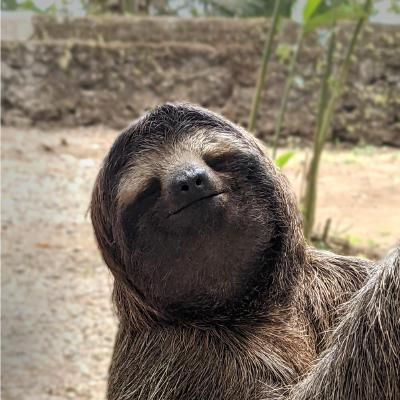
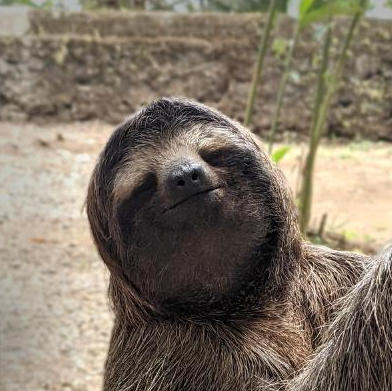
sc

diff --git a/index.html b/index.html
@@ -24,7 +24,7 @@
     
     <div class="row head-row">
       <div class="col">
-        <img src="" class="head-img" />
+        <img src="portrait2.jpg" class="head-img" />
       </div>
       <div class="col head">
         <h1>Timo Lüddecke</h1>
@@ -67,7 +67,7 @@
                         <p class="title">Image Segmentation Using Text and Image Prompts</p>
                         <p class="authors">Lüddecke, Timo, and Ecker, Alexander</p>
                         <p class="journal">Proceedings of the IEEE/CVF Conference on Computer Vision and Pattern Recognition, 2022</p>
-                        <p class="info"></p>
+                        <p class="info"><a href="https://openaccess.thecvf.com/content/CVPR2022/html/Luddecke_Image_Segmentation_Using_Text_and_Image_Prompts_CVPR_2022_paper.html" class="paper-link">Link</a> <a href="https://github.com/timojl/clipseg" class="paper-link">Code</a></p>
                     </div>
                 </div>
                 <div class="row">
@@ -78,7 +78,7 @@
                         <p class="title">Self-supervised Representation Learning of Neuronal Morphologies</p>
                         <p class="authors">Weis, Marissa A, Pede, Laura, Lüddecke, Timo, and Ecker, Alexander S</p>
                         <p class="journal">arXiv preprint arXiv:2112.12482, 2021</p>
-                        <p class="info"></p>
+                        <p class="info"><a href="https://arxiv.org/abs/2112.12482" class="paper-link">Link</a> </p>
                     </div>
                 </div>
                 <div class="row">
@@ -89,7 +89,7 @@
                         <p class="title">One-shot multi-path planning for robotic applications using fully convolutional networks</p>
                         <p class="authors">Tomas Kulvicius, Sebastian Herzog, Timo Lüddecke, Minija Tamosiunaite, and Florentin Wörgötter</p>
                         <p class="journal">In Proceedings of International Conference on Robotics and Automation (ICRA), 2020</p>
-                        <p class="info"><a href="https://ieeexplore.ieee.org/document/9196719" class="paper-link">Link</a></p>
+                        <p class="info"><a href="https://ieeexplore.ieee.org/document/9196719" class="paper-link">Link</a> </p>
                     </div>
                 </div>
                 <div class="row">
@@ -100,7 +100,7 @@
                         <p class="title">Fine-grained action plausibility rating</p>
                         <p class="authors">Timo Lüddecke, and Florentin Wörgötter</p>
                         <p class="journal">Robotics and Autonomous Systems (RAS), 2020</p>
-                        <p class="info"><a href="https://www.sciencedirect.com/science/article/abs/pii/S0921889019305536" class="paper-link">Link</a></p>
+                        <p class="info"><a href="https://www.sciencedirect.com/science/article/abs/pii/S0921889019305536" class="paper-link">Link</a> </p>
                     </div>
                 </div>
                 <div class="row">
@@ -111,7 +111,7 @@
                         <p class="title">CNNs can efficiently trace paths, too</p>
                         <p class="authors">Timo Lüddecke, and Alexander Ecker</p>
                         <p class="journal">NeurIPS 2020 Workshop SVRHM, 2020</p>
-                        <p class="info"><a href="https://openreview.net/forum?id=dPwyQnHUVvw" class="paper-link">Link</a></p>
+                        <p class="info"><a href="https://openreview.net/forum?id=dPwyQnHUVvw" class="paper-link">Link</a> </p>
                     </div>
                 </div>
                 <div class="row">
@@ -122,7 +122,7 @@
                         <p class="title">Distributional Semantics of Objects in Visual Scenes in Comparison to Text</p>
                         <p class="authors">Timo Lüddecke, Alejandro Agostini, Michael Fauth, Minija Tamosiunaite, and Florentin Wörgötter</p>
                         <p class="journal">Artificial Intelligence, 2019</p>
-                        <p class="info"><a href="http://www.sciencedirect.com/science/article/pii/S0004370219300177" class="paper-link">Link</a></p>
+                        <p class="info"><a href="http://www.sciencedirect.com/science/article/pii/S0004370219300177" class="paper-link">Link</a> </p>
                     </div>
                 </div>
                 <div class="row">
@@ -133,7 +133,7 @@
                         <p class="title">Context-based Affordance Segmentation from 2D Images for Robot Action</p>
                         <p class="authors">Timo Lüddecke, Tomas Kulvicius, and Florentin Wörgötter</p>
                         <p class="journal">Robotics and Autonomous Systems (RAS), 2019</p>
-                        <p class="info"><a href="https://www.sciencedirect.com/science/article/abs/pii/S0921889018309990" class="paper-link">Link</a></p>
+                        <p class="info"><a href="https://www.sciencedirect.com/science/article/abs/pii/S0921889018309990" class="paper-link">Link</a> </p>
                     </div>
                 </div>
                 <div class="row">
@@ -144,7 +144,7 @@
                         <p class="title">Learning to Segment Affordances</p>
                         <p class="authors">Timo Lüddecke, and Florentin Wörgötter</p>
                         <p class="journal">International Conference on Computer Vision Workshops (ICCVW), 2017</p>
-                        <p class="info"><a href="https://openaccess.thecvf.com/content_ICCV_2017_workshops/w14/html/Luddecke_Learning_to_Segment_ICCV_2017_paper.html" class="paper-link">Link</a></p>
+                        <p class="info"><a href="https://openaccess.thecvf.com/content_ICCV_2017_workshops/w14/html/Luddecke_Learning_to_Segment_ICCV_2017_paper.html" class="paper-link">Link</a> </p>
                     </div>
                 </div>
                 <div class="row">
@@ -155,7 +155,7 @@
                         <p class="title">Convolutional Neural Networks for Movement Prediction in Videos</p>
                         <p class="authors">Alexander Warnecke, Timo Lüddecke, and Florentin Wörgötter</p>
                         <p class="journal">German Conference on Pattern Recognition (GCPR), 2017</p>
-                        <p class="info"></p>
+                        <p class="info"> </p>
                     </div>
                 </div>
 
@@ -181,6 +181,7 @@
       <div class="col article">
         <p class="title">DrawCNN</p>
         <p class="description">DrawCNN is a python script to visualize CNN architectures and export to SVG for later refinement.</p>
+        <p class="info"><a href="https://github.com/timojl/drawCNN" class="paper-link">Code</a></p>
       </div>
     </div>     
     
@@ -191,14 +192,15 @@
       <div class="col article">
         <p class="title">Tralo</p>
         <p class="description">Tralo is a dependency-free training and experiment framework for PyTorch.</p>
+        <p class="info"><a href="https://github.com/timojl/tralo" class="paper-link">Code</a></p>
       </div>
     </div>    
 
 
     <hr>
     
-
-    <div style="width:45%; float: left; padding: 1em">
+    <div class="footer">
+    <div class="foot">
       <h3>Contact</h2>
       <p class="small">
         Timo Lüddecke<br />
@@ -208,13 +210,14 @@
       </p>
     </div>
  
-    <div style="width:45%; float: right; padding: 1em">
+    <div  class="foot">
     <h3>Data Protection Policy</h2>
     <p class="small">
       This website is hosted by the Github Inc. Pages service, their <a href="https://docs.github.com/en/site-policy/privacy-policies/github-privacy-statement">data privacy terms</a> apply. 
       No additional data is collected and no additional cookies are set.</p>
     </div>
-    <div style="clear: both"></div>
+  </div>
+    
 
     <script type="text/javascript">
       document.querySelectorAll('a.email').forEach(function(x) { x.href=x.href.replace('---%3c%c3%a4t%3e---', '@')});

diff --git a/style.css b/style.css
@@ -102,7 +102,14 @@ i.envelope { background: no-repeat url('mail.svg');  background-size: 100%;}
 i.github { background: no-repeat url('github-mark.svg');   background-size: 100%;}
 i.scholar { background: no-repeat url('hat.svg'); background-size: 100%;}
 
+.footer {
+    display:block;
+}
 
+.foot {
+    width:45%; 
+    padding: 1em;
+}
 
 @media only screen and (min-width: 800px) {
 
@@ -142,4 +149,14 @@ i.scholar { background: no-repeat url('hat.svg'); background-size: 100%;}
     }
 
     .article {margin: 0.5em}
+
+    .footer {
+        display:flex;
+    }
+    
+    .foot {
+        width:45%; 
+        padding: 1em;
+        float:none;
+    }    
 }
